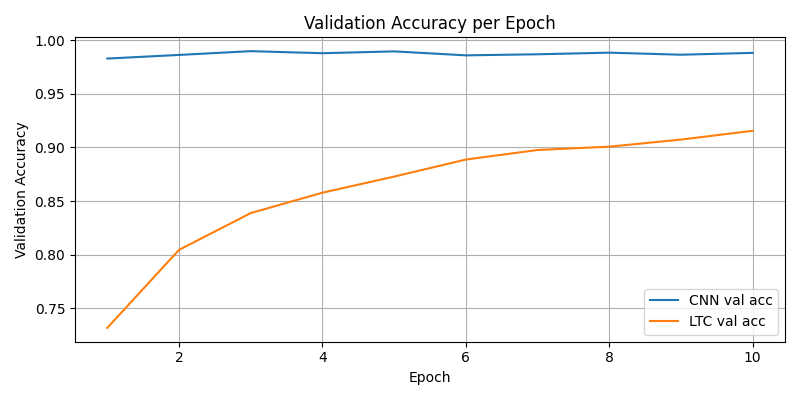
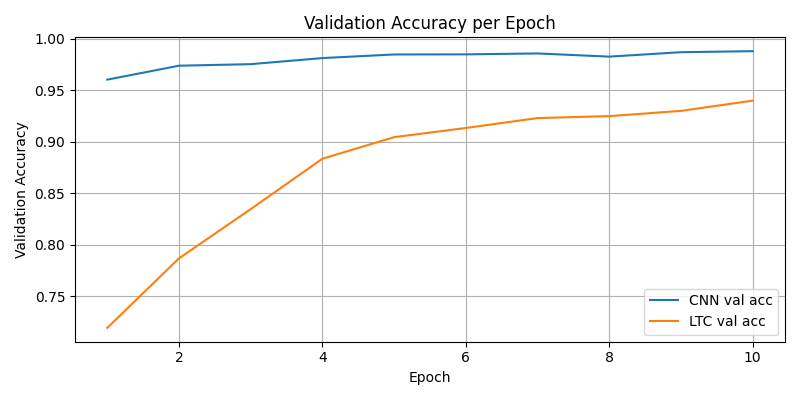
comparison

diff --git a/MNIST_Classification/basic_implementation.py b/MNIST_Classification/basic_implementation.py
@@ -56,15 +56,35 @@ class LiquidTimeConstantNetwork(nn.Module):
         return out
 
 
+# class CNNMNIST(nn.Module):
+
+#     def __init__(self, num_classes=10):
+#         super(CNNMNIST, self).__init__()
+
+#         self.conv1 = nn.Conv2d(1, 32, 3, padding=1)
+#         self.conv2 = nn.Conv2d(32, 64, 3, padding=1)
+#         self.pool = nn.MaxPool2d(2, 2)
+#         self.fc1 = nn.Linear(64 * 14 * 14, 128)
+#         self.fc2 = nn.Linear(128, num_classes)
+#         self.act = nn.ReLU()
+
+#     def forward(self, x):
+#         x = self.act(self.conv1(x))
+#         x = self.pool(self.act(self.conv2(x)))
+#         x = x.view(x.size(0), -1)
+#         x = self.act(self.fc1(x))
+#         x = self.fc2(x)
+#         return x
+
 class CNNMNIST(nn.Module):
 
     def __init__(self, num_classes=10):
         super(CNNMNIST, self).__init__()
 
-        self.conv1 = nn.Conv2d(1, 32, 3, padding=1)
-        self.conv2 = nn.Conv2d(32, 64, 3, padding=1)
+        self.conv1 = nn.Conv2d(1, 4, 3, padding=1)
+        self.conv2 = nn.Conv2d(4, 8, 3, padding=1)
         self.pool = nn.MaxPool2d(2, 2)
-        self.fc1 = nn.Linear(64 * 14 * 14, 128)
+        self.fc1 = nn.Linear(8 * 14 * 14, 128)
         self.fc2 = nn.Linear(128, num_classes)
         self.act = nn.ReLU()
 
@@ -357,349 +377,8 @@ if __name__ == '__main__':
     parser.add_argument('--batch_size', type=int, default=128)
     parser.add_argument('--eval_batch_size', type=int, default=256)
     parser.add_argument('--lr', type=float, default=1e-3)
-    parser.add_argument('--ltc_hidden', type=int, default=64)
+    parser.add_argument('--ltc_hidden', type=int, default=512)
     parser.add_argument('--seed', type=int, default=42)
     args = parser.parse_args()
 
     run_experiment(args)
-
-
-
-# compare_models.py
-# import time
-# import argparse
-# import math
-# import torch
-# import torch.nn as nn
-# import torch.nn.functional as F
-# from torchvision import datasets, transforms
-# from torch.utils.data import DataLoader
-# import random
-# import numpy as np
-# import matplotlib.pyplot as plt
-# from collections import defaultdict
-
-# # Optional FLOPS tool
-# try:
-#     from thop import profile as thop_profile
-#     THOP_AVAILABLE = True
-# except Exception:
-#     THOP_AVAILABLE = False
-
-# # -------------------------
-# # Models
-# # -------------------------
-# class LiquidNeuron(nn.Module):
-#     def __init__(self, input_size, hidden_size, dt=0.1):
-#         super(LiquidNeuron, self).__init__()
-#         self.input_size = input_size
-#         self.hidden_size = hidden_size
-#         self.dt = dt
-#         self.W_in = nn.Parameter(torch.randn(hidden_size, input_size) * 0.1)
-#         self.W_rec = nn.Parameter(torch.randn(hidden_size, hidden_size) * 0.1)
-#         self.bias = nn.Parameter(torch.zeros(hidden_size))
-#         self.tau_param = nn.Parameter(torch.ones(hidden_size) * 1.0)
-
-#     def forward(self, x, h):
-#         # x: (batch, input_size), h: (batch, hidden_size)
-#         pre_activation = F.linear(x, self.W_in) + F.linear(h, self.W_rec) + self.bias
-#         # ensure tau positive
-#         tau = torch.abs(self.tau_param) + 1e-6
-#         dh = self.dt * ((-h + torch.tanh(pre_activation)) / tau)
-#         h_new = h + dh
-#         return h_new
-
-# class LiquidTimeConstantNetwork(nn.Module):
-#     def __init__(self, input_size, hidden_size, output_size, dt=0.1):
-#         super(LiquidTimeConstantNetwork, self).__init__()
-#         self.hidden_size = hidden_size
-#         self.liquid = LiquidNeuron(input_size, hidden_size, dt)
-#         self.fc = nn.Linear(hidden_size, output_size)
-
-#     def forward(self, x):
-#         # x shape: (batch, seq_len, input_size) -> for MNIST: seq_len=28 rows, input_size=28 pixels
-#         batch_size, seq_len, input_size = x.shape
-#         h = torch.zeros(batch_size, self.hidden_size, device=x.device)
-#         for t in range(seq_len):
-#             h = self.liquid(x[:, t, :], h)
-#         out = self.fc(h)
-#         return out
-
-# class SimpleCNN(nn.Module):
-#     def __init__(self, num_classes=10):
-#         super(SimpleCNN, self).__init__()
-#         # small CNN baseline
-#         self.conv1 = nn.Conv2d(1, 32, 3, padding=1)  # 28x28 -> 28x28
-#         self.conv2 = nn.Conv2d(32, 64, 3, padding=1) # 28x28 -> 28x28
-#         self.pool = nn.MaxPool2d(2, 2)               # 28 -> 14
-#         self.fc1 = nn.Linear(64 * 14 * 14, 128)
-#         self.fc2 = nn.Linear(128, num_classes)
-#         self.act = nn.ReLU()
-
-#     def forward(self, x):
-#         # x: (batch,1,28,28)
-#         x = self.act(self.conv1(x))
-#         x = self.pool(self.act(self.conv2(x)))
-#         x = x.view(x.size(0), -1)
-#         x = self.act(self.fc1(x))
-#         x = self.fc2(x)
-#         return x
-
-# # -------------------------
-# # Utilities: seed, params, flops, timing
-# # -------------------------
-# def set_seed(seed=42):
-#     random.seed(seed)
-#     np.random.seed(seed)
-#     torch.manual_seed(seed)
-#     if torch.cuda.is_available():
-#         torch.cuda.manual_seed_all(seed)
-#     torch.backends.cudnn.deterministic = True
-#     torch.backends.cudnn.benchmark = False
-
-# def count_parameters(model):
-#     return sum(p.numel() for p in model.parameters() if p.requires_grad)
-
-# def compute_flops(model, device, example_input):
-#     """
-#     Uses thop if available. Returns flops (MACs) and params (also returns param count).
-#     If thop not available, returns (None, param_count).
-#     Note: thop returns FLOPs as raw number (multiply-add counted as 2 FLOPs in some configs).
-#     """
-#     param_count = count_parameters(model)
-#     if not THOP_AVAILABLE:
-#         return None, param_count
-#     try:
-#         model.eval()
-#         # thop expects the input to match forward signature: pass tuple
-#         flops, params_thop = thop_profile(model, inputs=(example_input,), verbose=False)
-#         return flops, param_count
-#     except Exception as e:
-#         # Thop may fail on custom loops (like sequential over timesteps). return None.
-#         return None, param_count
-
-# def measure_inference_time(model, device, input_batch, n_warmup=10, n_runs=50):
-#     model.eval()
-#     input_batch = input_batch.to(device)
-#     # warmup
-#     with torch.no_grad():
-#         for _ in range(n_warmup):
-#             _ = model(input_batch)
-#     # timed runs
-#     timings = []
-#     with torch.no_grad():
-#         for _ in range(n_runs):
-#             if device.type == 'cuda':
-#                 torch.cuda.synchronize()
-#             t0 = time.time()
-#             _ = model(input_batch)
-#             if device.type == 'cuda':
-#                 torch.cuda.synchronize()
-#             t1 = time.time()
-#             timings.append(t1 - t0)
-#     mean = float(np.mean(timings))
-#     std = float(np.std(timings))
-#     return mean, std
-
-# # -------------------------
-# # Training and evaluation
-# # -------------------------
-# def train_one_epoch(model, device, data_loader, optimizer, criterion):
-#     model.train()
-#     total_loss = 0.0
-#     correct = 0
-#     n = 0
-#     for inputs, labels in data_loader:
-#         inputs, labels = inputs.to(device), labels.to(device)
-#         optimizer.zero_grad()
-#         outputs = model(inputs)
-#         loss = criterion(outputs, labels)
-#         loss.backward()
-#         optimizer.step()
-#         total_loss += loss.item() * inputs.size(0)
-#         preds = outputs.argmax(1)
-#         correct += (preds == labels).sum().item()
-#         n += inputs.size(0)
-#     return total_loss / n, correct / n
-
-# def eval_model(model, device, data_loader, criterion=None):
-#     model.eval()
-#     total_loss = 0.0
-#     correct = 0
-#     n = 0
-#     with torch.no_grad():
-#         for inputs, labels in data_loader:
-#             inputs, labels = inputs.to(device), labels.to(device)
-#             outputs = model(inputs)
-#             if criterion:
-#                 total_loss += criterion(outputs, labels).item() * inputs.size(0)
-#             preds = outputs.argmax(1)
-#             correct += (preds == labels).sum().item()
-#             n += inputs.size(0)
-#     loss = total_loss / n if criterion else None
-#     acc = correct / n
-#     return loss, acc
-
-# # -------------------------
-# # Dataset wrappers so both models see same images
-# # -------------------------
-# class RowSequenceTransform:
-#     """Transform an MNIST image to (seq_len=28, input_size=28) float tensor."""
-#     def __call__(self, x):
-#         # x is (1,28,28) from ToTensor
-#         # return (28,28) as float tensor
-#         return x.squeeze(0).permute(0,1)  # shape (28,28)
-
-# def ToImageTensor():
-#     """Return a callable that keeps (1,28,28) for CNN"""
-#     def fn(x):
-#         return x  # ToTensor already gives (1,28,28)
-#     return fn
-
-# # -------------------------
-# # Main experiment runner
-# # -------------------------
-# def run_experiment(args):
-#     device = torch.device('cuda' if torch.cuda.is_available() else 'cpu')
-#     set_seed(args.seed)
-
-#     # Transforms
-#     base_transform = transforms.ToTensor()  # yields (1,28,28)
-#     # For the LTC model we need (seq_len=28, input_size=28):
-#     transform_ltc = transforms.Compose([base_transform, RowSequenceTransform()])
-#     transform_cnn = transforms.Compose([base_transform, ToImageTensor()])
-
-#     # Datasets
-#     train_set_ltc = datasets.MNIST(root=args.data_root, train=True, transform=transform_ltc, download=True)
-#     test_set_ltc  = datasets.MNIST(root=args.data_root, train=False, transform=transform_ltc)
-#     train_loader_ltc = DataLoader(train_set_ltc, batch_size=args.batch_size, shuffle=True, num_workers=2, pin_memory=True)
-#     test_loader_ltc  = DataLoader(test_set_ltc,  batch_size=args.eval_batch_size, shuffle=False, num_workers=2, pin_memory=True)
-
-#     # For CNN use separate dataset objects to preserve transform
-#     train_set_cnn = datasets.MNIST(root=args.data_root, train=True, transform=transform_cnn, download=False)
-#     test_set_cnn  = datasets.MNIST(root=args.data_root, train=False, transform=transform_cnn)
-#     train_loader_cnn = DataLoader(train_set_cnn, batch_size=args.batch_size, shuffle=True, num_workers=2, pin_memory=True)
-#     test_loader_cnn  = DataLoader(test_set_cnn,  batch_size=args.eval_batch_size, shuffle=False, num_workers=2, pin_memory=True)
-
-#     # Build models
-#     ltc = LiquidTimeConstantNetwork(input_size=28, hidden_size=args.ltc_hidden, output_size=10).to(device)
-#     cnn = SimpleCNN(num_classes=10).to(device)
-
-#     # Shared training setup
-#     criterion = nn.CrossEntropyLoss()
-#     opt_ltc = torch.optim.Adam(ltc.parameters(), lr=args.lr)
-#     opt_cnn = torch.optim.Adam(cnn.parameters(), lr=args.lr)
-
-#     # Logging storage
-#     history = {
-#         'ltc': {'train_loss':[], 'train_acc':[], 'val_loss':[], 'val_acc':[]},
-#         'cnn': {'train_loss':[], 'train_acc':[], 'val_loss':[], 'val_acc':[]},
-#     }
-
-#     # Pre-compute param counts and FLOPS
-#     print("Counting parameters and computing FLOPS (if thop available)...")
-#     # Example inputs for flops
-#     dummy_cnn = torch.randn(1,1,28,28).to(device)
-#     dummy_ltc = torch.randn(1,28,28).to(device)  # LTC expects (batch, seq_len, input_size)
-#     flops_cnn, params_cnn = compute_flops(cnn, device, dummy_cnn)
-#     flops_ltc, params_ltc = compute_flops(ltc, device, dummy_ltc)
-#     print(f"CNN params: {params_cnn:,}, CNN flops: {flops_cnn if flops_cnn else 'unavailable'}")
-#     print(f"LTC params: {params_ltc:,}, LTC flops: {flops_ltc if flops_ltc else 'unavailable'}")
-
-#     # Training loop: alternate training both models for fair GPU usage (or train sequentially)
-#     for epoch in range(1, args.epochs + 1):
-#         # Train LTC
-#         t0 = time.time()
-#         train_loss, train_acc = train_one_epoch(ltc, device, train_loader_ltc, opt_ltc, criterion)
-#         val_loss, val_acc = eval_model(ltc, device, test_loader_ltc, criterion)
-#         t1 = time.time()
-#         history['ltc']['train_loss'].append(train_loss)
-#         history['ltc']['train_acc'].append(train_acc)
-#         history['ltc']['val_loss'].append(val_loss)
-#         history['ltc']['val_acc'].append(val_acc)
-#         print(f"[Epoch {epoch}] LTC - train loss {train_loss:.4f} acc {train_acc:.4f} | val acc {val_acc:.4f} | epoch time {t1-t0:.2f}s")
-
-#         # Train CNN
-#         t0 = time.time()
-#         train_loss, train_acc = train_one_epoch(cnn, device, train_loader_cnn, opt_cnn, criterion)
-#         val_loss, val_acc = eval_model(cnn, device, test_loader_cnn, criterion)
-#         t1 = time.time()
-#         history['cnn']['train_loss'].append(train_loss)
-#         history['cnn']['train_acc'].append(train_acc)
-#         history['cnn']['val_loss'].append(val_loss)
-#         history['cnn']['val_acc'].append(val_acc)
-#         print(f"[Epoch {epoch}] CNN - train loss {train_loss:.4f} acc {train_acc:.4f} | val acc {val_acc:.4f} | epoch time {t1-t0:.2f}s")
-
-#     # After training: measure inference latency on a batch
-#     # pick a single batch from test loader
-#     sample_batch_ltc, _ = next(iter(test_loader_ltc))
-#     sample_batch_cnn, _ = next(iter(test_loader_cnn))
-#     # move to device but keep shapes expected by models
-#     mean_ltc, std_ltc = measure_inference_time(ltc, device, sample_batch_ltc, n_warmup=20, n_runs=100)
-#     mean_cnn, std_cnn = measure_inference_time(cnn, device, sample_batch_cnn, n_warmup=20, n_runs=100)
-
-#     # Convert batch time to per-sample if needed
-#     batch_size_ltc = sample_batch_ltc.size(0)
-#     batch_size_cnn = sample_batch_cnn.size(0)
-#     per_sample_ltc = mean_ltc / batch_size_ltc
-#     per_sample_cnn = mean_cnn / batch_size_cnn
-
-#     print("\n=== SUMMARY ===")
-#     print(f"CNN parameters: {params_cnn:,}")
-#     print(f"LTC parameters: {params_ltc:,}")
-#     if flops_cnn: print(f"CNN FLOPS (approx): {flops_cnn:,}")
-#     else: print("CNN FLOPS: unavailable (thop not installed or failed)")
-#     if flops_ltc: print(f"LTC FLOPS (approx): {flops_ltc:,}")
-#     else: print("LTC FLOPS: unavailable (thop not installed or failed)")
-#     print(f"CNN inference (batch time mean): {mean_cnn:.6f}s ± {std_cnn:.6f}, per sample: {per_sample_cnn:.6f}s")
-#     print(f"LTC inference (batch time mean): {mean_ltc:.6f}s ± {std_ltc:.6f}, per sample: {per_sample_ltc:.6f}s")
-
-#     # Convergence: find epoch at which val_acc crosses thresholds
-#     def epoch_to_reach(acc_list, threshold):
-#         for i, a in enumerate(acc_list):
-#             if a >= threshold:
-#                 return i+1
-#         return None
-
-#     thresholds = [0.90, 0.95, 0.98]
-#     for t in thresholds:
-#         e_cnn = epoch_to_reach(history['cnn']['val_acc'], t)
-#         e_ltc = epoch_to_reach(history['ltc']['val_acc'], t)
-#         print(f"Epoch to reach {int(t*100)}% on val set -> CNN: {e_cnn}, LTC: {e_ltc}")
-
-#     # Plot training curves
-#     epochs = range(1, args.epochs+1)
-#     plt.figure(figsize=(8,4))
-#     plt.plot(epochs, history['cnn']['val_acc'], label='CNN val acc')
-#     plt.plot(epochs, history['ltc']['val_acc'], label='LTC val acc')
-#     plt.xlabel('Epoch')
-#     plt.ylabel('Validation Accuracy')
-#     plt.title('Validation Accuracy per Epoch')
-#     plt.legend()
-#     plt.grid(True)
-#     plt.tight_layout()
-#     plt.savefig('val_accuracy_comparison.png')
-#     print("Saved validation accuracy plot to val_accuracy_comparison.png")
-
-#     # Save history to .npz
-#     np.savez('history_comparison.npz',
-#              cnn_train_loss=np.array(history['cnn']['train_loss']),
-#              cnn_val_acc=np.array(history['cnn']['val_acc']),
-#              ltc_train_loss=np.array(history['ltc']['train_loss']),
-#              ltc_val_acc=np.array(history['ltc']['val_acc']))
-#     print("Saved training history to history_comparison.npz")
-
-# # -------------------------
-# # CLI
-# # -------------------------
-# if __name__ == '__main__':
-#     parser = argparse.ArgumentParser()
-#     parser.add_argument('--data_root', type=str, default='./data')
-#     parser.add_argument('--epochs', type=int, default=10)
-#     parser.add_argument('--batch-size', type=int, default=128)
-#     parser.add_argument('--eval-batch-size', type=int, default=256)
-#     parser.add_argument('--lr', type=float, default=1e-3)
-#     parser.add_argument('--ltc-hidden', type=int, default=64)
-#     parser.add_argument('--seed', type=int, default=42)
-#     args = parser.parse_args()
-#     run_experiment(args)
